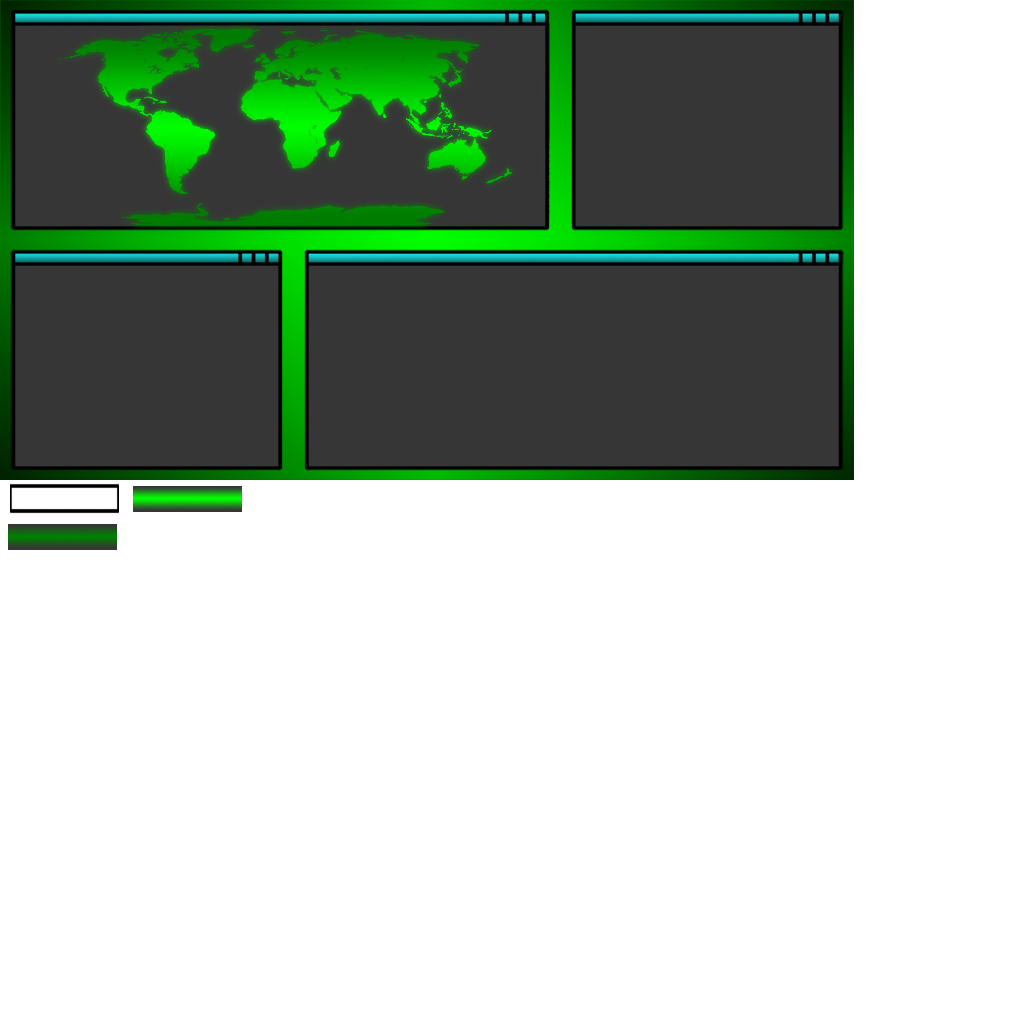
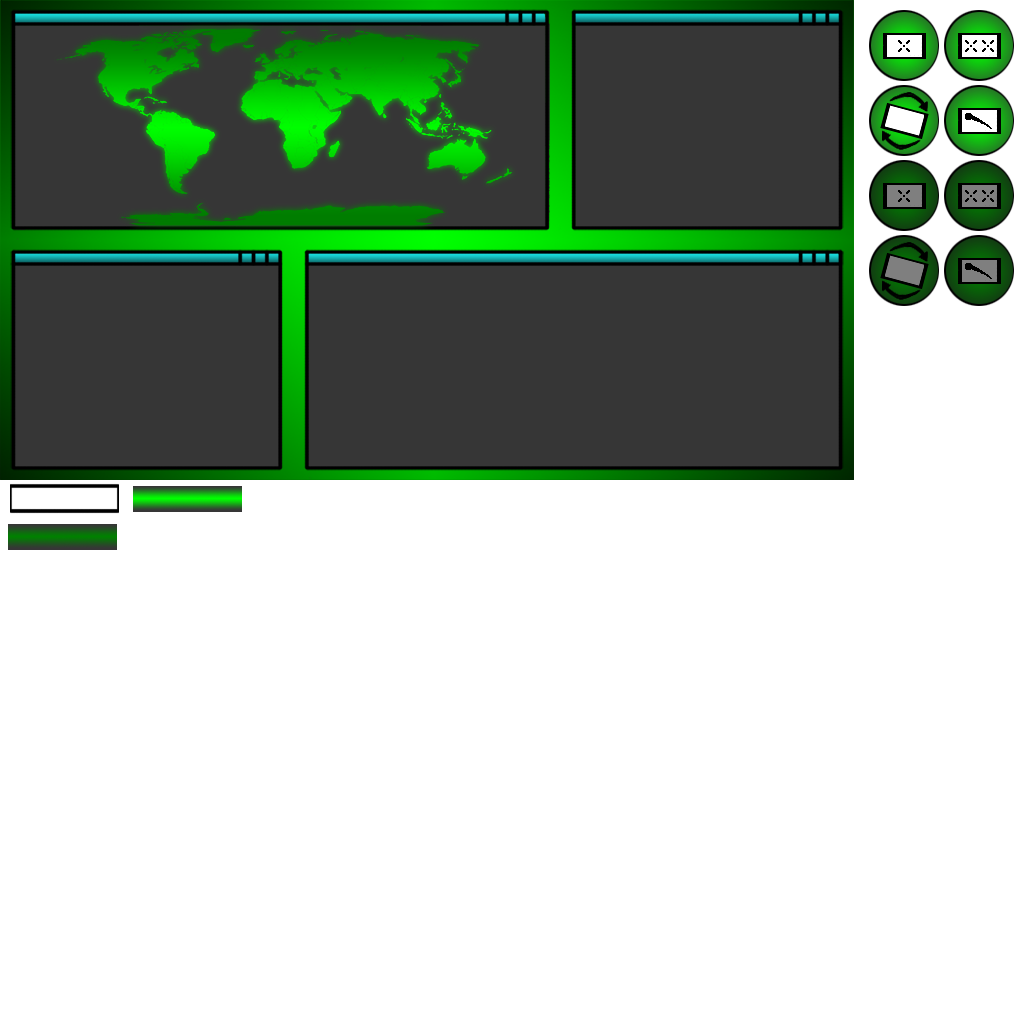
Added MicroGame Indicators to Transition Screen. Currently, the Indicators do not turn on or off based on the currently loading microgame, but are locked on a particular state to display the on and off states. Have to decide what to do about the overlapping pause button.

Changed region(s): [[0.8438, 0.0, 1.0, 0.3125]]

diff --git a/vergegl/src/com/dbz/verge/AssetsManager.java b/vergegl/src/com/dbz/verge/AssetsManager.java
@@ -49,6 +49,14 @@ public class AssetsManager {
     public static TextureRegion meterBarOutlineRegion;
     public static TextureRegion meterBarEmptyRegion;
     public static TextureRegion meterBarFillRegion;
+    public static TextureRegion singleTouchOnIndicatorRegion;
+    public static TextureRegion multiTouchOnIndicatorRegion;
+    public static TextureRegion accelerometerOnIndicatorRegion;
+    public static TextureRegion gestureOnIndicatorRegion;
+    public static TextureRegion singleTouchOffIndicatorRegion;
+    public static TextureRegion multiTouchOffIndicatorRegion;
+    public static TextureRegion accelerometerOffIndicatorRegion;
+    public static TextureRegion gesturesOffIndicatorRegion;
     
     public static Texture gameGrid;
     public static TextureRegion gameGridBackgroundRegion;
@@ -140,6 +148,14 @@ public class AssetsManager {
         meterBarOutlineRegion = new TextureRegion(transition, 8, 483, 113, 31);
         meterBarEmptyRegion = new TextureRegion(transition, 8, 524, 109, 26);
         meterBarFillRegion = new TextureRegion(transition, 133, 486, 109, 26);
+        singleTouchOnIndicatorRegion = new TextureRegion(transition, 867, 8, 75, 75);
+        multiTouchOnIndicatorRegion = new TextureRegion(transition, 942, 8, 75, 75);
+        accelerometerOnIndicatorRegion = new TextureRegion(transition, 867, 83, 75, 75);
+        gestureOnIndicatorRegion = new TextureRegion(transition, 942, 83, 75, 75);
+        singleTouchOffIndicatorRegion = new TextureRegion(transition, 867, 158, 75, 75);
+        multiTouchOffIndicatorRegion = new TextureRegion(transition, 942, 158, 75, 75);
+        accelerometerOffIndicatorRegion = new TextureRegion(transition, 867, 233, 75, 75);
+        gesturesOffIndicatorRegion = new TextureRegion(transition, 942, 233, 75, 75);
         
         gameGrid = new Texture("gamegrid.png");
         gameGridBackgroundRegion = new TextureRegion(gameGrid, 0, 0, 1280, 800);

diff --git a/vergegl/src/com/dbz/verge/Mode.java b/vergegl/src/com/dbz/verge/Mode.java
@@ -599,6 +599,13 @@ public abstract class Mode extends Screen {
 		batcher.drawSprite(28, 24, 239, 26, AssetsManager.meterBarEmptyRegion);				// TMP Bar. (4th)
 		batcher.drawSprite(28, 24, (239 * tmpBar), 26, AssetsManager.meterBarFillRegion); 	
 		batcher.drawSprite(22, 22, 250, 31, AssetsManager.meterBarOutlineRegion);
+		// batcher.endBatch();
+		
+		// Draws MicroGame Indicators.
+		batcher.drawSprite(612, 368, 75, 75, AssetsManager.singleTouchOnIndicatorRegion);
+		batcher.drawSprite(725, 368, 75, 75, AssetsManager.multiTouchOnIndicatorRegion);
+		batcher.drawSprite(612, 267, 75, 75, AssetsManager.accelerometerOffIndicatorRegion);
+		batcher.drawSprite(725, 267, 75, 75, AssetsManager.gesturesOffIndicatorRegion);
 		batcher.endBatch();
 	}
 	
